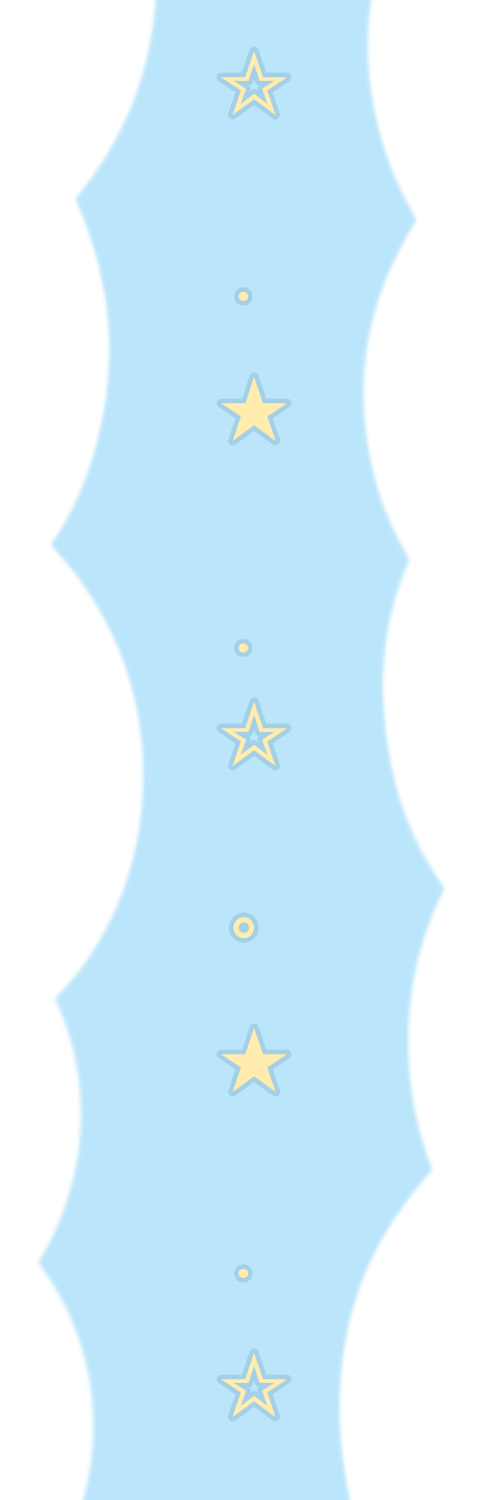
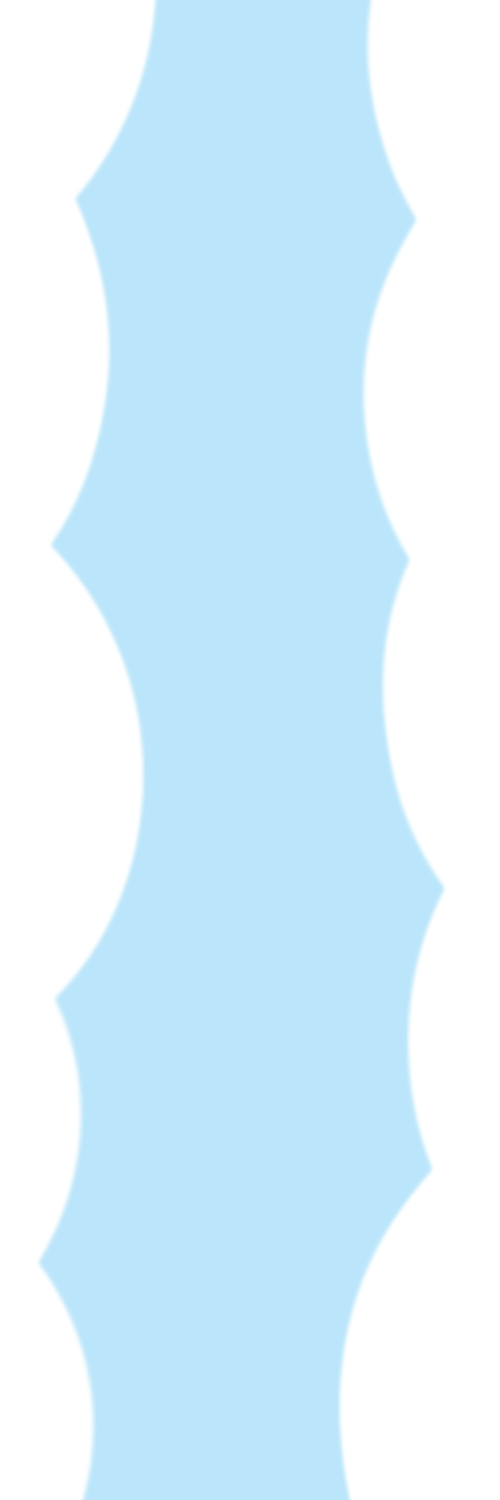
Add files via upload

diff --git a/index.html b/index.html
@@ -3,60 +3,96 @@
 <head>
     <meta charset="UTF-8">
     <meta name="viewport" content="width=device-width, initial-scale=1.0">
-    <title>Acervo Alola</title>
-    <link rel="stylesheet" href="./style.css">
-    <link rel="icon" href="./imgs/icon.webp"
+    <title>Feedback</title>
+    <link rel="icon" href="./imgs/icon.webp">
+    <link rel="stylesheet" href="style.css">
+    
 </head>
 <body>
-    <div class="header">
-        <img src="./imgs/headr.png" alt="Cabeçalho Acervo Alola">
-    </div>
-    <div class="menu">
-        <a href="https://pokemondb.net/pokedex/game/sun-moon" target="_blank">
-        <button>Pokedex</button></a>
-        <a href="https://www.youtube.com/watch?v=CaBNW8sfs4Q" target="_blank"><button>Curiosidades</button></a>
-        <a href="https://bulbapedia.bulbagarden.net/wiki/Pok%C3%A9mon_Sun_and_Pok%C3%A9mon_Moon_Pok%C3%A9mon_Ultra_Sun_and_Pok%C3%A9mon_Ultra_Moon_The_Alola_Region_Artworks#" target="_blank"><button>Galeria</button></a>
-        <a href="https://bulbapedia.bulbagarden.net/wiki/Regional_form" target="_blank"><button>Outros</button></a>
-    </div>
-    <div class="colunas">
-        <div class="coluna">
-            <h3>Como eu poderia conhecer mais sobre pokemon?</h3>
-            <p>Existem diversos canais e sites que trazem informação sobre Pokemon, recomendações do acervo:</p>
-            <p><b><a href="https://bulbapedia.bulbagarden.net/wiki/Alola" target="_blank" >Bulbapédia: Uma wiki completa sobre os jogos e o mundo de Pokémon</a></b></p>
-            <p><b><a href="https://www.youtube.com/c/KakaMestrePok%C3%A9mon" target="_blank" >Kaka Mestre Pokémon: Criador de conteúdo de Pokemon, ele fala traz curiosidades e novidades sobre a franquia.</a></b></p>
-            <p><b><a href="https://www.youtube.com/@treinadorzard" target="_blank" >Treinador Zard: saindo um pouco da historia pokémon, esse criador de contúdo traz gameplays com desafios divertidos.</a></b></p>
-        </div>
-        <div class="coluna2">
-            <h2>Bem-vindo a Alola!</h2>
-            <p><b>Data de atualização: 13/09/2026</b></p>
-            <img src="./imgs/Alola mapa.png" alt="Mapa de Alola" width="100%">
-            <p><b>Afinal, o que é Alola?</b></p>
-            <p><b>Alola é uma região da 7ª geração do mundo Pokémon, formada por quatro ilhas principais e uma ilha artificial. Conhecida por belas praias, vulcões e paisagens paradisíacas. A região também se destaca pelas Provas de Ilha, que substituem os tradicionais Ginásios Pokémon, e pelas formas regionais de diversos Pokémon, adaptadas ao ambiente de Alola.</b></p>
-            <h2>Formas Regionais de Alola</h2>
-            <p><b>Data de atualização: 13/09/2026</b></p>
-            <img src="./imgs/Vulpix duas.png" alt="Vulpix Normal e Vulpix de Alola" width="100%">
-            <p><b>As Formas Regionais de Alola são variações de Pokémon já conhecidos que se adaptaram ao ambiente tropical e às condições específicas da região de Alola. Essas adaptações podem mudar sua aparência, tipos, habilidades e comportamento.</b></p>
-            <h2>Ultra Beasts</h2>
-            <p><b>Data de atualização: 13/09/2026</b></p>
-            <img src="./imgs/ultra beast.jpg" alt="Ilustração das Ultra Beasts" width="100%">
-            <p><b>O que são?</b></p>
-            <p><b>As Ultra Beasts são criaturas misteriosas introduzidas em Pokémon Sun e Moon. Elas vêm de outras dimensões chamadas Ultraespaços. Diferente dos Pokémon comuns, as Ultra Beasts possuem características bastante incomuns e são consideradas ameaças quando aparecem em Alola. A maioria delas possui a habilidade Beast Boost, que aumenta seu maior atributo após derrotar outro Pokémon.</b></p>
-
-        </div>
-        <div class="coluna">
-            <h2>Videos sobre Alola</h2>
-            <ol>
-                <li><a href="https://youtu.be/uQLPREAu7hc?si=T7kcRkHQCHoASMbZ" target="_blank" >Pokédex de Alola</a></li>
-                <li><a href="https://youtu.be/iy9g3rlwjQU?si=5PAFNRf7I1Y8ooT-" target="_blank" >Explicando Iniciais</a></li>
-                <li><a href="https://youtu.be/yJU5cY6dNOQ?si=qy3vKnQooalumiFB" target="_blank" >Formas Regionais</a></li>
-                <li><a href="https://youtu.be/txpqnxBL3F4?si=-A85zGk8yXtydjHW" target="_blank" >Mitologia Pokemon</a></li>
-               
-            </ol>
-        </div>
-    </div>
-    <div class="footer">
-        <p style="color: rgb(152, 114, 74);">&copy; 2026 Acervo Alola. Todos os direitos reservados.</p>
     
+        <div class="header">
+            <img src="./imgs/headr.png" alt="Cabeçalho Acervo Alola">
+        </div>
+
+        <div class="menu">
+            <hr>
+        </div>
+
+        <div class="colunas">
+            <div class="coluna">
+                <img src="imgs/coluna.png">
+
+            </div>
+
+            <div class="coluna2">
+                <h2>Nos de sua opnião!</h2>
+                
+                <form action="https://httpbin.org/post" method="post">
+                
+                    <label for="nomef">Nome:</label>
+                    <input type="text" id="nomef" name="nomef" required> <br>
+                    <p><b>Gênero:</b></p>
+                    <select name="gender" id="gender">
+                        <option>Feminino</option>
+                        <option>Masculino</option>
+                        <option>Outro</option>
+                        <option>Prefiro não informar</option>
+                    </select><br><br>
+            
+                    
+                    
+             <table class="tabela">  
+                <thead>
+                    <tr>
+                        <th>---</th>
+                        <th>Bom</th>
+                        <th>Neutro</th>
+                        <th>Ruim</th>
+                    </tr>
+                </thead>
+                <tbody>
+                    <tr>
+                        <td>Estetica do site</td>
+                        <td><input type="radio" class="bom" id="bom" name="estetica"></td>
+                        <td><input type="radio" class="neutro" id="bom" name="estetica"></td>
+                        <td><input type="radio" class="ruim" id="ruim" name="estetica"></td>
+                    </tr>
+                    <tr>
+                        <td>Conteúdo</td>
+                        <td><input type="radio" class="bom" id="bom" name="cont"></td>
+                        <td><input type="radio" class="neutro" id="bom" name="cont"></td>
+                        <td><input type="radio" class="ruim" id="ruim" name="cont"></td>
+                    </tr>
+                    <tr>
+                        <td>Funcionalidade</td>
+                        <td><input type="radio" class="bom" id="bom" name="fun"></td>
+                        <td><input type="radio" class="neutro" id="bom" name="fun"></td>
+                        <td><input type="radio" class="ruim" id="ruim" name="fun"></td>
+                    </tr>
+                </tbody>
+                <tfoot>
+                    <tr>
+                        <td colspan="4">Sua opnião importa muito!</td>
+                    </tr>
+                </tfoot>
+            </table>
+                <br>
+                <label for="detalhe">Nos diga mais:</label> 
+                <textarea type="text" id="detalhe" name="detalhe"></textarea><br><br>
+                <button type="submit">Enviar</button>
+                </form>
+            
+            </div>
+
+            <div class="coluna">
+                <img src="imgs/coluna.png">
+            </div>
+        </div>
+        <div class="footer">
+            <p style="color: rgb(152, 114, 74);"><a>Fale conosco!</p></a>
+            <p style="color: rgb(152, 114, 74);"><a>Deixe seu Feedback</p></a>
+            <p style="color: rgb(152, 114, 74);">&copy; 2026 Acervo Alola. Todos os direitos reservados.</p>
+        </div>
     </div>
 </body>
 </html>

diff --git a/style.css b/style.css
@@ -7,47 +7,20 @@ html, body{
 .header{
     background-color: #BAE5FA;
     text-align: center;
-}
-
-
-.menu{
-    background-color: #E1AA53;
-    margin: 0;
-    text-align: center;
-    display: flex;
-    
-}
-.menu button{
-    background-color: #E1AA53;
-    color: rgb(248, 247, 247);
-    font-size: 15px;
-    font-weight: bold;
-    padding: 12px;
-    border: none;
     width: auto;
-    cursor: pointer;
-   
 }
-.menu button:hover{
-    background-color: #916e35;
-    
+.header img {
+    max-width: 100%; 
+    height: auto;     
+    display: block;  
+    margin: 0 auto;
 }
-@media  screen and (max-width: 600px){
-    .menu{
-        flex-direction:column;
-    }
-}
-img{
-    max-width: 100%;
-    height: auto;
-}
-.colunas{
-    display: flex;
-}
+
 .coluna{
     background-color: #cdeaff;
     flex: 0.15;
-    padding: 20px;
+    padding: 0px;
+    text-align: center;
     
 }
 .coluna2{
@@ -56,28 +29,79 @@ img{
     padding: 20px;
     color:#b48843
 }
+.colunas{
+    display: flex;
+    
+}
+.menu{
+    background-color: #E1AA53;
+    margin: 0;
+    text-align: center;
+    display: flex;
+    
+}
 .footer{
     background-color:#E1AA53;
-;
     padding: 20px;
     text-align: center;
     font-size: 14px;
     color: black;
     
 }
-.coluna a:link{
-    color: #355a6c;
-    background-color: transparent;
-    text-decoration: none;
-   
+.coluna2 button{
+  background-color: #b48843;
+  color: white;
+  padding: 10px 15px;
+  border: none;
+  border-radius: 4px;
+  cursor: pointer;
+  width: 20%;
+
 }
-.coluna{
-    color:#355a6c;
+.coluna2 button:hover{
+    background-color: #916e35;
 }
-   
-.coluna h2{
-    color: #355a6c;
+.coluna2 input {
+  margin-bottom: 20px;
+}
+
+.coluna2 label {
+  display: block;
+  margin-bottom: 8px;
+  font-weight: bold;
+  color: #b48843;
+  font-size: 14px;
+}
+.coluna img{
+    width: 100%;
+    min-height: 55vh;
+
+}
+.coluna2 textarea{
+    width: 99%;
+    height: 190px;
+    resize:none;
+}
+
+@media  screen and (max-width: 600px){
+    .colunas{
+        flex-direction: row;
+    }
+}
+.footer a:link{
+  color: rgb(152, 114, 74);
+  text-decoration: none;
+}
+table, th, td{
+    border: 1px solid #b48843;
+    border-collapse: collapse;
+    color: #b48843;
     text-align: center;
+    
 }
-
-
+th, td{
+    background-color: #f8e0a2;
+}
+thead th{
+    width: 10%;
+}
